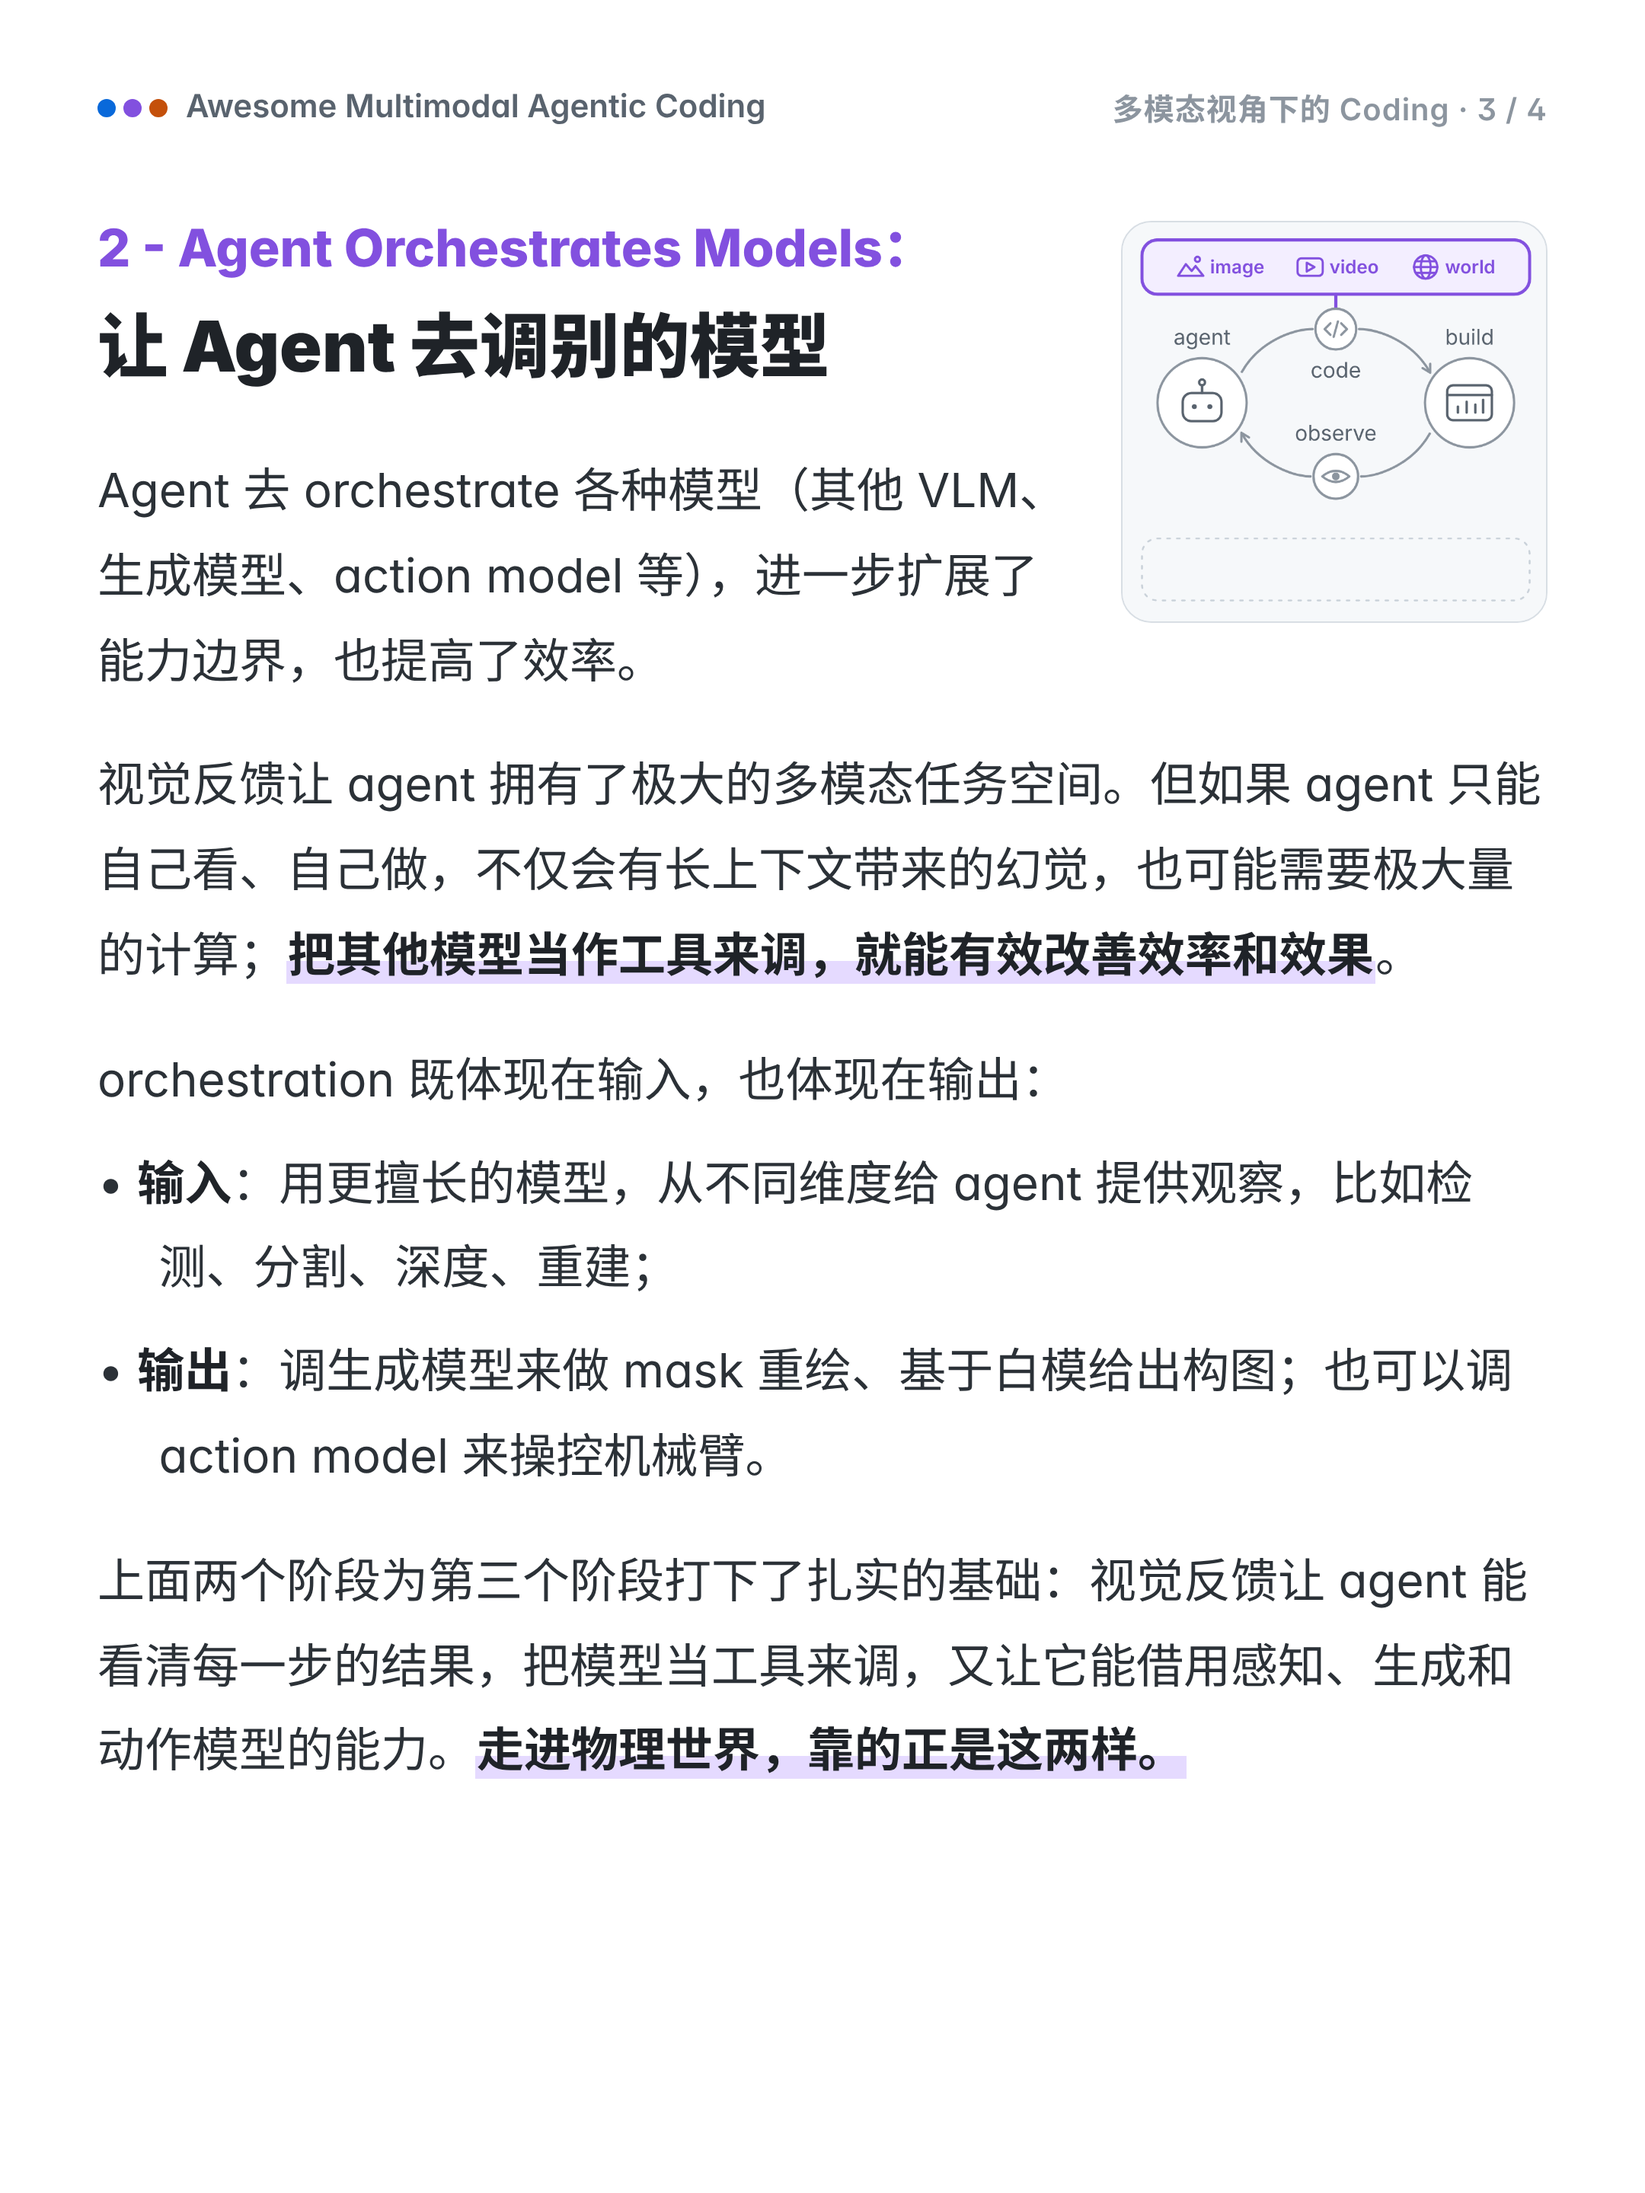
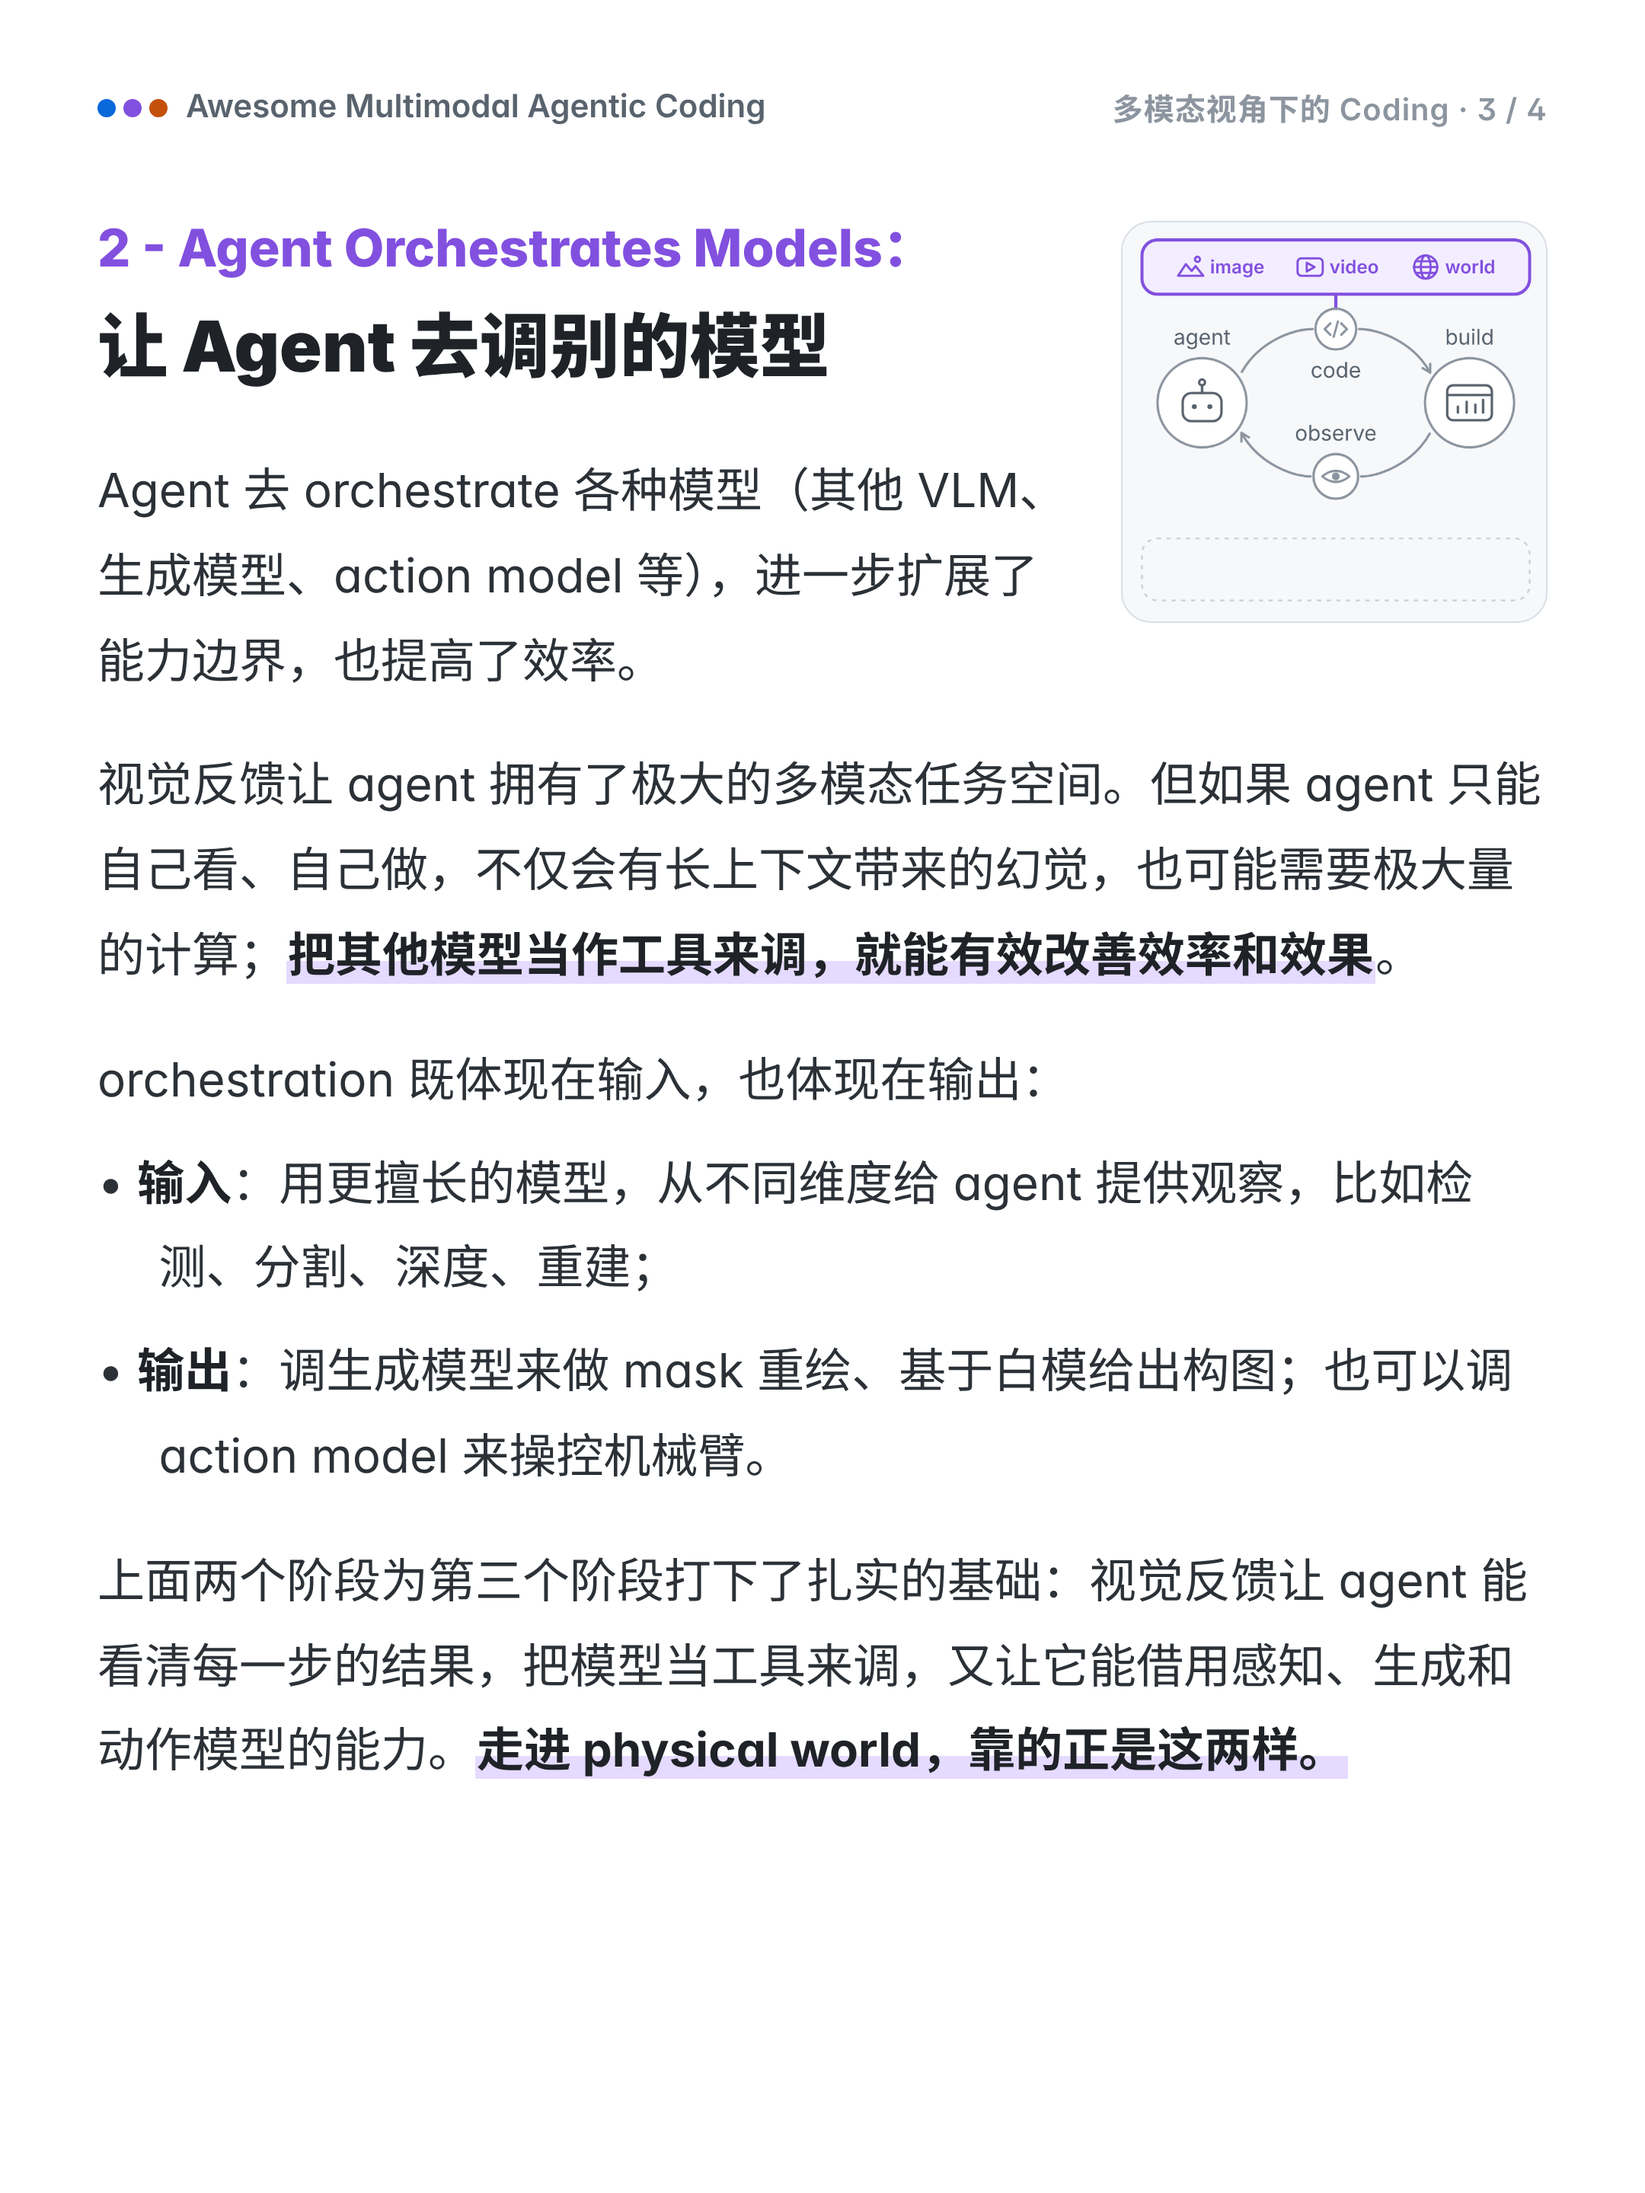
Use "physical world" in the Chinese body; restore the English closing
The Chinese post body now writes "physical world" where it said 物理世界,
matching "digital world" in stage 3. The English closing goes back to
"ultimately reach physical AGI".

Claude-Session: https://claude.ai/code/session_01PZLRnhK6KdyKQiDbpVhFsH

Changed region(s): [[0.3412, 0.7812, 0.8375, 0.8125]]

diff --git a/promo/gen.js b/promo/gen.js
@@ -115,7 +115,7 @@ const intro = () => article(1, 1, `
   <div class="h1sub">扩展 Agent 能力边界，最终通向物理 AGI</div>
   <p style="margin-top:44px">最近和一些同学交流，感觉我们的角度还挺有意思的，所以分享下我们的思考。</p>
   <p>我们从六月份开始做多模态 agentic coding 相关的任务。GPT-6 发布后，Computer Use Agent 一下子火了，也让我们之前摸着能力边界做的一些研究显得不那么前沿了（一个人做也确实比较慢）。</p>
-  <p>但我们一直是从 ${hl('coding 的角度、而不是 CUA 的角度')}来看这件事。最近 <b>Robot Use Agent</b> 也越来越多：让 Agent 直接写代码控制机器人，再加上 <b>Real2Sim2Real</b>，这些都是${hl('多模态 coding 这条线往物理世界的延伸')}。其实${hl('从 coding 的角度来看，这个发展是很自然的。')}</p>
+  <p>但我们一直是从 ${hl('coding 的角度、而不是 CUA 的角度')}来看这件事。最近 <b>Robot Use Agent</b> 也越来越多：让 Agent 直接写代码控制机器人，再加上 <b>Real2Sim2Real</b>，这些都是${hl('多模态 coding 这条线往 physical world 的延伸')}。其实${hl('从 coding 的角度来看，这个发展是很自然的。')}</p>
   <p>我们主要从下面三个阶段来理解：</p>
   <p class="li">1⃣ <b>Visual as Feedback</b>：有了视觉反馈，模型才能真正 loop 起来</p>
   <p class="li">2⃣ <b>Agent Orchestrates Models</b>：让 Agent 去调生成、感知、动作模型，能力边界进一步扩展</p>
@@ -135,14 +135,14 @@ const stage2 = () => article(3, 1, `
   <p>orchestration 既体现在输入，也体现在输出：</p>
   <p class="li">• <b>输入</b>：用更擅长的模型，从不同维度给 agent 提供观察，比如检测、分割、深度、重建；</p>
   <p class="li">• <b>输出</b>：调生成模型来做 mask 重绘、基于白模给出构图；也可以调 action model 来操控机械臂。</p>
-  <p>上面两个阶段为第三个阶段打下了扎实的基础：视觉反馈让 agent 能看清每一步的结果，把模型当工具来调，又让它能借用感知、生成和动作模型的能力。${hl('走进物理世界，靠的正是这两样。')}</p>`);
+  <p>上面两个阶段为第三个阶段打下了扎实的基础：视觉反馈让 agent 能看清每一步的结果，把模型当工具来调，又让它能借用感知、生成和动作模型的能力。${hl('走进 physical world，靠的正是这两样。')}</p>`);
 
 const stage3 = () => article(4, 2, `
-  <div class="h2"><span class="n">3 - Bridging Digital World &amp; Physical World：</span>把 loop 带进物理世界</div>
+  <div class="h2"><span class="n">3 - Bridging Digital World &amp; Physical World：</span>把 loop 带进 physical world</div>
   <p style="margin-top:36px">前两个阶段不断扩展着 coding agent 的能力边界，但都还在 digital world 里。很自然地，我们想把这个 loop 带进 physical world。这也是我们仓库里现在最大、涨得最快的一块。</p>
   <p>${hl('Agentic Loop 是一切想法的开始。')}coding控制的就是一台机器人，「看结果改代码」变成了「看动作结果改策略」。最近的 <b>Robot Use Agent</b> 做的正是这件事：不用专门训练一个策略，只给现成的 coding agent 一个终端和机器人的感知、运动接口，它就能自己写 Python 让机器人干活，看相机画面和执行结果，失败了就改代码再试。但真机上的 loop 又慢又贵，于是很自然地想先把真实世界「搬」进代码里，而前两个阶段的发展为 Real2Sim 提供了可能；再在仿真里把 loop 转得又快又多，造数据、攒经验，最后把能力带回真机。${hl('这一切又是基模的故事了')}</p>
   <div class="h3">最后</div>
-  <p style="margin-top:18px">三个阶段是层层叠上去的。我们相信，沿着「写代码 → 看结果 → 再改」这条路，agent 会一步步${hl('从屏幕走向物理世界')}。</p>`);
+  <p style="margin-top:18px">三个阶段是层层叠上去的。我们相信，沿着「写代码 → 看结果 → 再改」这条路，agent 会一步步${hl('从屏幕走向 physical world')}。</p>`);
 
 const topbarEn = (n) => `<div class="topbar"><span class="brand"><span class="dots">${C.acc.map((c) => `<i style="background:${c}"></i>`).join('')}</span>Awesome Multimodal Agentic Coding</span><span class="prog">A Multimodal View of Coding · ${n} / 4</span></div>`;
 const articleEn = (n, i, body) => `<div class="page ar en" style="${vars(i)}">${topbarEn(n)}${wrap(n, body)}</div>`;
@@ -195,7 +195,7 @@ const stage3En = () => articleEn(4, 2, `
   <p style="margin-top:34px">The first two stages keep expanding what coding agents can do, but they still live in the digital world. Naturally, we want to bring this loop into the physical world. This is also the largest and fastest-growing part of our repo.</p>
   <p>${hl('The agentic loop is where every idea starts.')} Now the code controls a robot, and “look at the result, fix the code” becomes “look at what the robot did, fix the policy”. That is exactly what recent <b>robot-use agents</b> do: without training a dedicated policy, you give an off-the-shelf coding agent a terminal and the robot’s perception and motion interfaces, and it writes Python to get the robot working, watches the camera and the execution results, and rewrites the code when something fails. But a loop on a real robot is slow and expensive, so the natural next step is to “move” the real world into code first, and the progress of the first two stages makes <b>Real2Sim</b> possible; the loop can then spin fast and often in simulation, generating data and building up experience, before the skills are carried back to the real robot. ${hl('And all of this, once again, comes down to the foundation model.')}</p>
   <div class="h3">Finally</div>
-  <p style="margin-top:16px">The three stages build on each other. We believe that by following the path of “write code → see the result → fix it”, agents will move step by step ${hl('from the screen into the physical world')}.</p>`);
+  <p style="margin-top:16px">The three stages build on each other. We believe that by following the path of “write code → see the result → fix it”, agents will move step by step from the screen into the real world, and ${hl('ultimately reach physical AGI')}.</p>`);
 
 (async () => {
   fs.mkdirSync(path.join(OUT, 'en'), { recursive: true });

diff --git a/promo/post.en.md b/promo/post.en.md
@@ -85,7 +85,7 @@ The agentic loop is where every idea starts. Now the code controls a robot, and 
 
 #### Finally
 
-The three stages build on each other. We believe that by following the path of “write code → see the result → fix it”, agents will move step by step from the screen into the physical world.
+The three stages build on each other. We believe that by following the path of “write code → see the result → fix it”, agents will move step by step from the screen into the real world, and ultimately reach physical AGI.
 
 ## First comment
 
